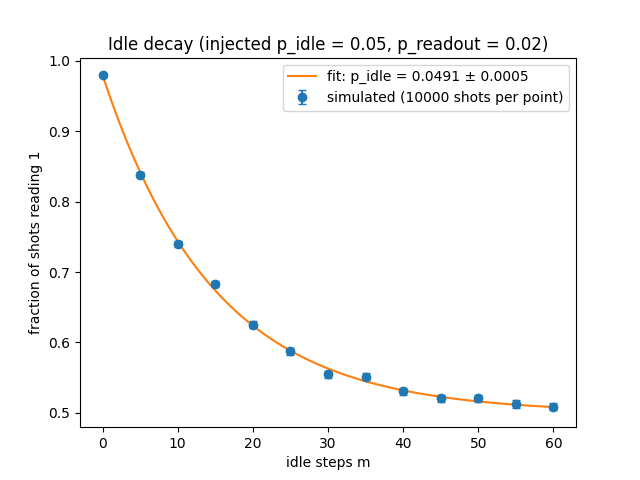
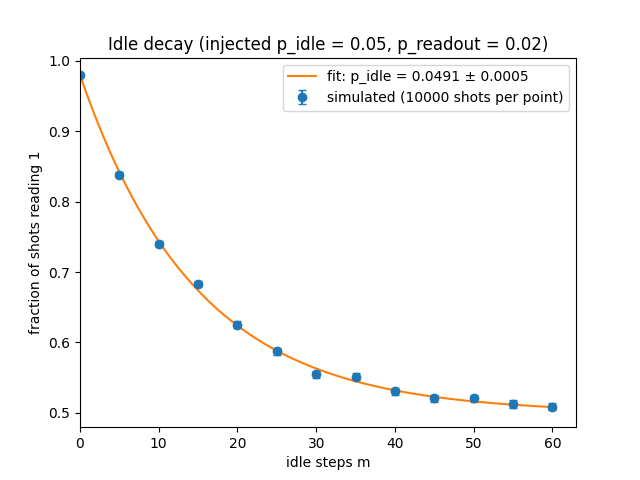
adding writeup and plots

diff --git a/WRITEUP.md b/WRITEUP.md
@@ -1,0 +1,275 @@
+# Noisy quantum circuit simulator: write-up
+
+**Approach.** Build the simplest simulator I could trust, pin it down with tests, validate the
+noise end to end, then make it fast in measured steps: profile, change one thing, check against
+the reference, benchmark, and keep or revert. Every step is recorded (commit, log, profile and a
+row in `results/progress.md`), so each claim below can be traced.
+
+## Part 1: a correct simulator
+
+The simulator follows the state-vector model, gate set, noise model and circuit format in the
+brief. Two design decisions:
+
+- **Clarity first.** Gates are matrices applied by two plain functions, `apply_1q` and
+  `apply_2q`, written as direct loops over the amplitudes. Slow, but easy to check against the
+  definitions, which made it a trustworthy reference (tagged `v1-reference`) for Part 3.
+- **Separate parsing from simulation.** `read_circuit.py` turns the circuit file into a list of
+  time steps; `sim.py` only runs them. Each part is tested on its own, and invalid files raise
+  clear errors.
+
+Tests pin down correctness before any optimisation:
+- **Gates (`test_gates.py`):** each gate on a simple input gives what its matrix predicts.
+- **Noise limits (`test_noise.py`):** with no noise X gives 1 and GHZ gives only 000 and 111;
+  readout alone flips with probability p_readout; gate and idle noise flip with probability
+  ⅔·p (within 5σ, fixed seed).
+- **Invariants (`test_invariants.py`):** the state stays normalised; a gate followed by its
+  inverse returns the original state.
+
+## Part 2: validating the noise
+
+### The experiment
+
+Here we test to make sure the noises behave as we expect.
+We start with one qubit in 1 (X), leave it idle for m time steps, then measure; p_gate = 0, so the only errors are idle and readout (`idle_noise.py`). Run m = 0, 5, …, 60 with 10,000 shots each and record the fraction f of shots that read 1. Each m uses its own seed, so the points are independent.
+
+### The expected curve
+- Since there are only two outcomes for each Qubit value, 0 or 1, it is binomial in nature.
+- Experimental probablity puts them at 50/50 at large n when we randomly assign noise, have probability value and readout error. So at higher shots,(n) it will reach to 1/2 the ratio eventually.
+- Initially, for shot 1, we just have a X gate and a readout. The readout error is 2% hence at beginning, the ratio starts at 0.98 and will decay to 1/2. 
+- Per idle step, the bit flips with probability q = (2/3)·p_idle (X or Y flips it, Z does not). (This is just the probability to be chosen one of the gates, and not gate noise)
+- The funciton f = 1/2 + d. Where d is the distance above 1/2.
+- One step maps d to (1 − 2q)·d, so after m steps
+  d = (1/2)(1 − 2q)^m, starting from d = 1/2 (the qubit is 1).
+- Readout flips the result with probability r = p_readout, which scales d by (1 − 2r), where r is the readout error.
+
+  f(m) = 1/2 + 1/2 · (1 − 2r) · (1 − 2q)^m,   q = 2/3 · p_idle
+
+The curve starts at 1 − r and decays to 1/2. It has the form: C + AX^m. The readout error defines the stretch or shrink of the function (as a simple transformation). As the constant A<1 will shrink the function and A>1 will strech so it defines how fast it reaches 1/2. The q value that has p_idle, defines the horizontal stretch. Which also defines how fast it reaches 1/2.
+
+### Fit and uncertainty
+
+- Error bars on each point: binomial, sqrt(f(1 − f)/N), with N = 10,000 shots. This is taken from standard deviation = sqrt(variance)
+- p_readout is treated as known (it is an input of the simulation), so the fit has one
+  free parameter, p_idle. It is fitted with `scipy.optimize.curve_fit`, weighted by the errorbars (`absolute_sigma=True`); 
+- Result: injected p_idle = 0.05, fitted **0.04911 ± 0.00054**, 1.66σ from the injected
+  value, so consistent.
+- Ideally, we could switch and verify the p_readout by fixing p_idle.
+
+![Idle decay](figures/idle_decay.png)
+
+### Shot count
+
+With N = 10,000 shots the error bar on each point is at most 0.005 (at f = 1/2), small
+compared with the drop of the curve over the first 20–30 steps, and the fitted p_idle comes out to about 1% relative uncertainty. The error scales as 1/sqrt(N): 4× more shots halve it.
+
+### Where the estimate stops being informative
+
+- **Very small p_idle:** over m ≤ 60 the curve barely moves, so the decay is smaller than the error bars and p_idle is poorly determined. More steps or more shots are needed.
+- **Very large p_idle:** the curve reaches 1/2 within a few steps, so only the first points carry information. At p_idle = 0.75, 1 − 2q = 0 and the qubit is fully randomised after one step; beyond that the model no longer describes a decay.
+- **An interesting note** on this is that for horizontal expansion and stretch of the function, the smaller value of the coeeficient (p_idle in this case) stretches. So a smaller p_idle stretches the curve and 1/2 is slowly reached.
+- **Large readout error:** the factor (1 − 2r) shrinks the whole signal; at r = 1/2 there is nothing left to fit. Like aforementioned, for vertical stretch, its a direct multiplier so higher factor stretches it or lower shrinks.
+
+## Part 3: Making it fast
+
+### 1. Hardware
+
+All benchmarks ran on one machine (details in `hardware.md`):
+
+| Item | Value |
+|---|---|
+| Machine | MacBook Pro (Mac15,6), Apple M3 Pro |
+| Cores | 11 (5 performance + 6 efficiency), no SMT |
+| Caches | L2 16 MiB (performance cluster), 4 MiB (efficiency cluster); 128-byte lines |
+| Memory | 18 GB unified LPDDR5, 150 GB/s peak bandwidth (Apple's published figure, not measured) |
+| GPU | 14-core M3 Pro GPU, not used |
+| Software | macOS 27.2.1, Python 3.12.2, NumPy 1.26.4, numba 0.60.0 |
+
+### 2. Reference version
+
+The Part 1 simulator is tagged `v1-reference` in git and kept unchanged as
+`sim_reference.py`, an exact copy of `sim.py` at that tag. It is the baseline for every
+speed-up (`benchmark.py --impl reference`) and the ground truth for the equivalence tests. A quick note, the initial coding was done with the idea of maximizing understanding and sacrificing some efficiency.
+
+
+
+### 3. Benchmark circuit (brickwork)
+
+`brickwork.py` generates the benchmark circuit from (n, D, seed). Each of the D layers
+applies RY(θ) to every qubit with a random θ, then a TICK, then CNOTs on neighbouring pairs:
+(0,1), (2,3), … in odd layers and (1,2), (3,4), … in even layers, then a TICK. The angles come from a seeded generator, so the same (n, D, seed) always gives the same circuit, and every version is benchmarked on identical input. At D = 20 a circuit has 20n RY gates and about 10(n − 1) CNOTs (590 gates at n = 20).
+
+
+
+### 4. Method: profile, change one thing, measure
+
+Each round: profile both regimes with cProfile, change the one function the profile points at, check the results against the reference (`test_equivalence.py`), benchmark both regimes, and record the numbers in `results/progress.md` with the log and profile files. Each fo hte Cprofile is saved and used to extract components to optimize. Close results were rechecked with 3 alternating runs of the old and new code, and the medians compared. If the optimization or the change worsen the performance, it was reverted.
+
+### 5. Optimisation rounds
+
+#### Initial - Reference
+- The reference mode was extremely slow as the no of qubit or the no. of shot increased. One of the obvious issue was the loop iteration in applying the 1 qubit gates and 2 qubit gates. If we use this as (1x)
+
+#### Optimization 1 & 2 
+- As mentioned above, the first optimization was performed to vectorize the numpy array so it could be interated using numpy not for loop. This was done for all gates.
+- This significantly helped with improvement. (44x)
+
+#### Optimizaiton 3a (Reverted): 
+- Attempted to apply matrix multiplicaiton but due to the structure of the matrix, shape and size, decreased the performance. Ideally, matrix multiplicaiton is effective for large array not a lot of smaller ones (51x). The performance was okay on shots but not good in memory. This was reverted.
+
+#### Optimizaiton 3b.
+- This is recognizing the effect of each gates and replacing matrix opration to simpler operations (75x)
+
+#### Optimization 3c
+- Replacing regular operator with combined operator, for example X=X+b to X+=b.
+- This increaded around 3-8%
+
+
+#### Optimization 3c+. 
+- Replacing matrix with simple operations for X, Y and Z.
+- This was slightly faster (77x)
+
+#### Optimizaiton 3d (Reverted)
+- RY  was also optimized but had to be reverted fast becuase it hindered and revereted because it lowered the performance. (68k)
+
+#### Optimization 4: Numba
+- Numba has been applied. It changes how the loop is done and it increased the benchmark significantly. (202x)
+
+#### Correctness of optimised versions
+
+Every round passed `test_equivalence.py` (72 tests) against the reference before it was benchmarked.
+
+- **Noiseless: compared directly.** Final states (all 2^n amplitudes) must match the reference
+  within 1e-12, over brickwork and random circuits using every gate, including gates on the
+  lowest and highest qubits. The n ≥ 19 code paths were checked at n = 19 and 20 (difference 0.0).
+- **Noisy, same seed: identical counts.** The strictest check, but it relies on both versions
+  drawing random numbers in the same order; an optimisation that reorders the draws (e.g.
+  batching the noise) would fail it while still being correct.
+- **Noisy, statistical: chi-squared.** 20,000 shots each with different seeds; the two count
+  distributions must be consistent (p > 0.001). This does not depend on the order of the draws,
+  so it stays valid after any such change.
+
+#### Table and Plot
+
+**Many shots:** n = 12, D = 20, p_gate = p_idle = 10⁻³, p_readout = 10⁻². Speed-up against the
+reference (2.6 shots/s).
+
+| Round | Change | Shots/s | Speed-up |
+|---|---|---|---|
+| Reference | Python loops over amplitudes | 2.6 | 1× |
+| Optimisation 1 | Vectorise `apply_1q` | 6.1 | 2.3× |
+| Optimisation 2 | Vectorise `apply_2q` | 109.0 | 42× |
+| Optimisation 3a (reverted) | `apply_1q` as one matmul | 126.5 | 49× |
+| Optimisation 3b | CNOT as a swap | 188.7 | 73× |
+| Optimisation 3c | `apply_1q` in place (all sizes) | 152.3 | 59× |
+| Optimisation 3c+ | In place for n ≥ 19 only; X, Y, Z as swaps/sign flips | 192.3 | 74× |
+| Optimisation 3d (reverted) | RY and CZ kernels | 169.1 | 65× |
+| Optimisation 4 | `apply_1q` as a numba loop | 506.2 | 195× |
+
+Shots per second does not depend on the number of shots (each shot does the same work), so for slower earlier runs, a smaller m was used and later  runs, 10⁵ shots was used. The reference at 10⁵ shots would take about
+11 hours.
+
+**Many qubits:** noiseless, 1 shot, D = 20, n from 4 until each version passes 300 s per run
+(the final version reaches n = 29, the machine's memory limit; peak memory is in the Scaling
+table). Reference points for n = 4–19 are the mean of two runs. Generated by `plot_scaling.py`.
+
+![Many qubits: time against n](figures/qubits_scaling.png)
+
+- **Parallel straight lines above n ≈ 14.** Every version grows about 2× per qubit, as the model
+  time ≈ (gates) × 2^n predicts (see Scaling). Optimisations lower the line; none changes the
+  slope, because every gate still has to touch the whole state.
+- **Optimisation 1 barely moves the line.** Only `apply_1q` was vectorised; the `apply_2q`
+  Python loop still dominated (Amdahl's law). Optimisation 2 removes that loop: the largest drop.
+- **3b and 3c+ almost overlap.** The CNOT swap was a clear gain; in-place operations added only
+  3–8%, and only for n ≥ 19.
+- **Optimisation 4 is lowest from n ≈ 17** and reaches n = 29. Its step from 28 to 29 is steeper
+  (4.1×): memory capacity, not bandwidth, becomes the limit (see Prediction).
+- **Flat line for Optimisation 4 below n ≈ 16.** About 0.14 s of loading numba's compiled code
+  is counted inside the timed call. This is a measurement artefact, not the algorithm.
+- **Noise below about 10 ms.** Single runs of a few milliseconds are dominated by timer noise,
+  so the small-n zig-zags carry no meaning.
+
+### 6. Scaling
+
+#### Time growth vs n
+
+Every gate touches the whole state of 2^n amplitudes, and the circuit has about 30n gates at
+D = 20, so **time ≈ (gates) × 2^n**: each extra qubit costs about 2.1×. On the log-scale plot
+this is a straight line, and each optimisation moves the line down without changing its slope.
+
+Round 4 (numba), the final version, up to the machine limit:
+
+| n | 20 | 21 | 22 | 23 | 24 | 25 | 26 | 27 | 28 | 29 |
+|---|---|---|---|---|---|---|---|---|---|---|
+| Time (s) | 0.75 | 1.53 | 2.97 | 6.34 | 12.9 | 26.4 | 59.0 | 124 | 261 | 1080 |
+| Ratio to n − 1 | 1.65 | 2.05 | 1.94 | 2.13 | 2.03 | 2.05 | 2.24 | 2.10 | 2.10 | 4.14 |
+| Peak memory (GB) | 0.18 | 0.29 | 0.33 | 0.54 | 0.95 | 1.77 | 2.87 | 4.07 | 6.59 | 11.0 |
+| Bandwidth (GB/s) | 24.4 | 24.9 | 27.0 | 26.5 | 27.2 | 27.6 | 25.7 | 25.5 | 25.1 | 12.6 |
+| % of 150 GB/s peak | 16 | 17 | 18 | 18 | 18 | 18 | 17 | 17 | 17 | 8 |
+
+- **n < 17:** fixed costs dominate (Python start-up, loading numba, about 0.14 s), so the line is flat.
+- **n ≈ 17–20:** the state (16 × 2^n bytes) outgrows the 16 MiB L2 cache; the ratio rises towards 2.
+- **n = 21–28:** the state streams from main memory on every gate; the ratio holds at 2.0–2.2.
+- **n = 29:** 4.1× instead of 2.1×. The process peaked at 11 GB of 18 GB, most likely memory
+  pressure (compression and swapping). n = 30 needs 17 GiB for the state alone: n = 29 is the
+  limit of this machine.
+
+#### Bytes, flops and bandwidth
+
+- **Bytes per gate** (N = 2^n amplitudes, 16 bytes each, minimum read plus write): RY (numba
+  loop) **32N**; CNOT (swap of two quarters, via a temporary copy) **24N**.
+- **Flops per gate:** RY does 4 complex multiplies (6 flops) and 2 complex adds (2 flops) per
+  pair, **14N**; CNOT only moves data, **0**.
+- **Memory-bound:** RY does about **0.4 flops per byte**, far less than a core can compute per
+  byte loaded, so the kernels wait on memory. At n = 24 the RY gates reach about 9 GFLOP/s on
+  one core, well below its arithmetic capacity (peak flop rate not measured). Evidence: round 3d
+  cut RY's flops about 3× with real arithmetic and got slower, because the bytes did not change.
+- **Achieved bandwidth** (total bytes ÷ time, table above): **25–28 GB/s, about 17–18% of
+  Apple's published 150 GB/s peak**, steady for n = 20–28; at n = 29 memory pressure halves it.
+
+#### What stops it getting closer
+
+- **One thread.** The numba loop uses one of 11 cores, which cannot saturate the memory system.
+  This is the largest factor; multithreading is the fix.
+- **Access pattern.** For high qubits the two halves of each pair are far apart in memory.
+- **Extra traffic in CNOT.** The swap goes through a temporary copy of a quarter.
+- **Theoretical peak.** 150 GB/s is Apple's figure, not a measurement; the achievable figure is
+  lower, so the true fraction is higher.
+
+These are estimates from byte counts and wall-clock times, not hardware counters.
+
+#### Prediction at the largest n
+
+- **Model:** every gate streams the whole state, so time(n + 1) = time(n) × 2 × gates(n + 1) /
+  gates(n), with 20n RY gates plus the CNOTs (830 at n = 28, 860 at n = 29). Predicting each n
+  from the previous one, it matches the measurements within 8% for n = 22–28, and within 2% for
+  n = 27–28.
+- **Prediction for n = 29:** 2 × 860 / 830 × 260.8 s ≈ **540 s**. **Measured: 1080 s**, twice
+  the prediction. The model assumes bandwidth is the only limit; at n = 29 memory capacity took
+  over (11 GB of 18 GB, compression and swapping), which the model does not include.
+- **Note:** the n = 29 run was made before this prediction was written down. The prediction uses
+  only n ≤ 28, but it is not a blind test; with more time I would predict first, then rerun.
+
+#### Limiting resource in each regime
+
+- **Many qubits: memory bandwidth, then memory capacity.** Memory-bound at 17–18% of peak on
+  one core for n = 20–28; at n = 29 memory capacity takes over, and n = 30 does not fit
+  (see Scaling).
+- **Many shots: Python overhead, not hardware.** At n = 12 the 64 KB state stays in cache, and a
+  gate takes about 3.3 µs. The round 4 profile: numba `apply_1q` loop 41%, CNOT swap 17%,
+  rebuilding the RY matrices every shot 14%, the rest Python bookkeeping (gate dispatch, noise
+  draws, the shot loop). The hardware is far from its limits; reusing work across shots
+  (caching RY matrices, batching shots) is the way forward.
+
+### What I would do next with more time
+
+In order of expected value, based on the profiles and the bandwidth numbers above:
+
+1. **Multithreading (numba `prange`).** The many-qubits regime runs on one core at 17–18% of peak bandwidth. Splitting each gate's loop across cores is the most direct way to move closer to the memory limit.
+2. Extend and run the system longer to get even more extreme data points for the plot. 
+3. **Reuse work across shots.** In the shots regime the time is Python overhead, not hardware. Building the RY matrices once per circuit instead of every shot removes about 14%; moving CNOT into numba removes most of its 17%; running many shots together (one array per batch, noise drawn in bulk) would remove most of the per-gate Python cost.
+4. **Try to migrate to C++.** A C++ architecture might be faster and more useful here than Python.
+5. **Benchmark hygiene.** Repeat each benchmark several times and report the spread, rerun all versions under identical settings, and write the large-n prediction down before running it.
+6. **Wider testing.** Run the equivalence tests at large n as well, so size-dependent code paths are always covered, and run the Part 2 limits (very small and very large p_idle).
+7. **Comparison with an established simulator** (e.g. Qiskit Aer) on the same circuits, and a GPU version using the M3's unified memory.
+8. **Test on a different machine.** Rerun the benchmarks on other hardware to check the results.
+9. **Cache the RY matrices.** `ry()` rebuilds the same 2×2 matrix for every gate in every shot (480,000 times in 2,000 shots, about 14% of the shots time in round 4). Building each matrix once per circuit and reusing it across shots is a small, safe change for the many-shots regime.
